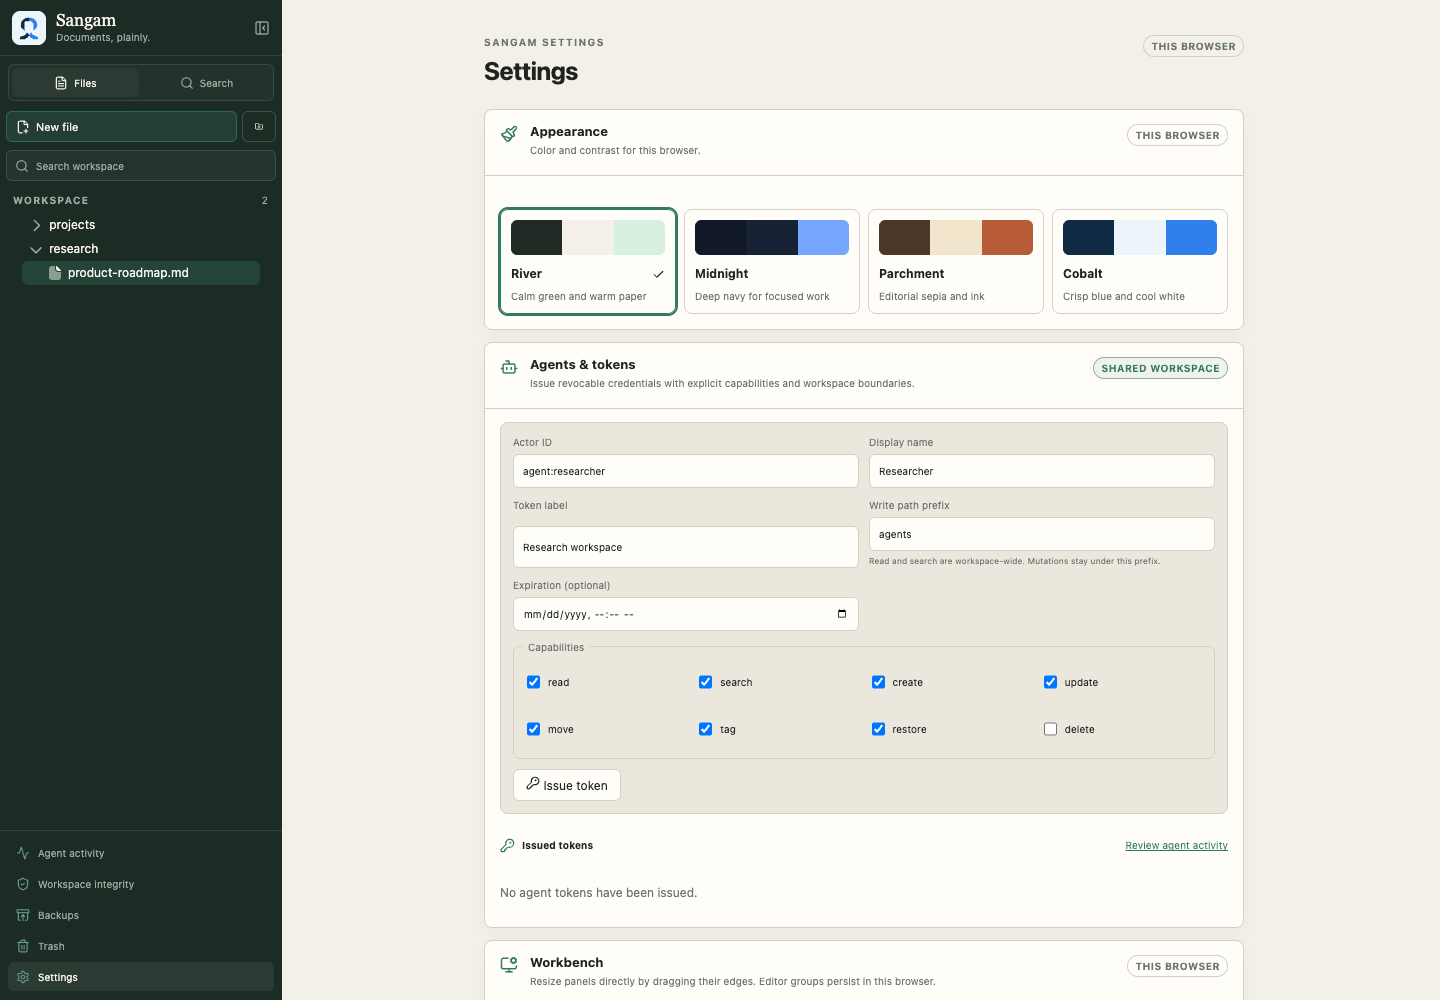
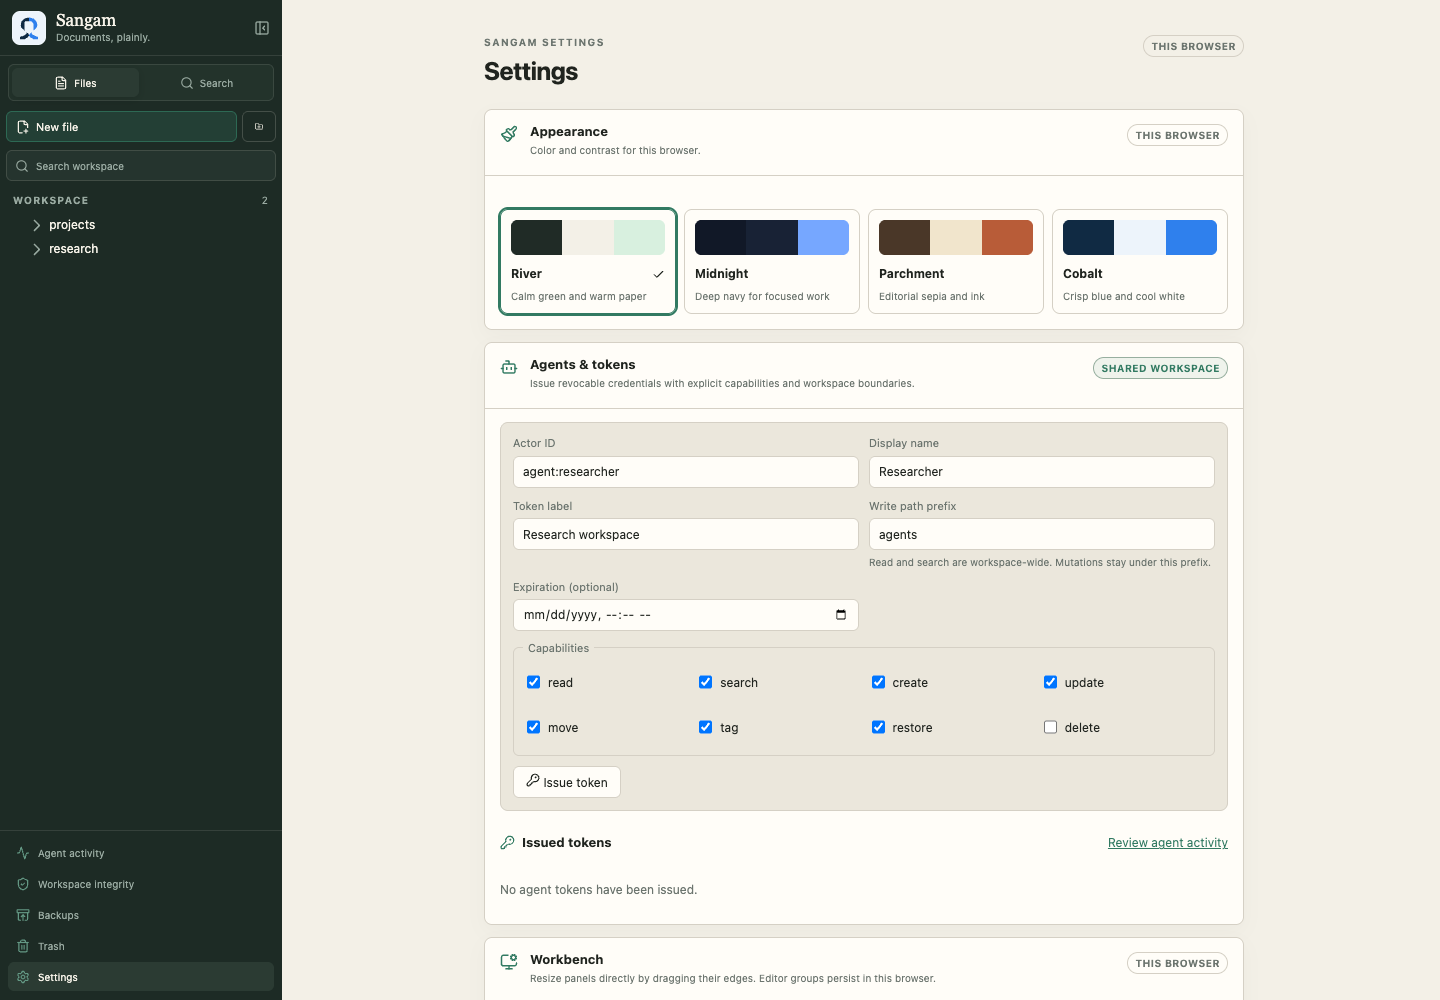
Finish settings UI standardization

diff --git a/frontend/src/styles/settings.css b/frontend/src/styles/settings.css
@@ -6,7 +6,7 @@
 .settings-nav-title { display: grid; gap: 2px; padding: 6px 9px 14px; border-bottom: 1px solid var(--line); margin-bottom: 7px; }
 .settings-nav-title strong { font-size: var(--text-body); }
 .settings-nav-title span { color: var(--muted); font-size: var(--text-meta); }
-.settings-nav a { min-height: 32px; display: flex; align-items: center; gap: 8px; padding: 0 9px; border-radius: var(--radius-control); color: var(--muted); text-decoration: none; font-size: var(--text-meta); }
+.settings-nav a { min-height: var(--control-height); display: flex; align-items: center; gap: 8px; padding: 0 9px; border-radius: var(--radius-control); color: var(--muted); text-decoration: none; font-size: var(--text-control); }
 .settings-nav a:hover, .settings-nav a:focus-visible { background: var(--surface); color: var(--text); }
 .settings-nav a svg { color: var(--accent); }
 .settings-content { width: min(920px, calc(100% - 36px)); margin: 0 auto; padding: 22px 0 64px; }
@@ -23,22 +23,23 @@
 .settings-theme-grid { grid-template-columns: repeat(4, minmax(0, 1fr)); gap: 8px; }
 .settings-theme-grid .theme-card { min-height: 102px; padding: 10px; }
 .settings-theme-grid .theme-card strong { display: flex; align-items: center; justify-content: space-between; }
+.settings-theme-grid .theme-card small { font-size: var(--text-meta); }
 .settings-rows { display: grid; }
 .setting-row { min-height: 54px; display: flex; align-items: center; justify-content: space-between; gap: 18px; padding: 8px 0; border-bottom: 1px solid var(--line); }
 .setting-row:last-child { border-bottom: 0; }
 .setting-row > div { min-width: 0; display: grid; gap: 2px; }
-.setting-row strong { font-size: var(--text-meta); }
+.setting-row strong { font-size: var(--text-body); }
 .setting-row small { color: var(--muted); font-size: var(--text-meta); line-height: 1.4; }
 .setting-value { display: inline-flex; align-items: center; gap: 5px; color: var(--muted); font-size: var(--text-meta); white-space: nowrap; }
-.compact-switch { display: inline-flex; align-items: center; gap: 7px; color: var(--muted); font-size: var(--text-meta); white-space: nowrap; }
+.compact-switch { display: inline-flex; align-items: center; gap: 7px; color: var(--muted); font-size: var(--text-control); white-space: nowrap; }
 .compact-switch input { accent-color: var(--accent); }
-.secondary-action { min-height: 30px; display: inline-flex; align-items: center; justify-content: center; gap: 6px; border: 1px solid var(--line); border-radius: var(--radius-control); background: var(--surface-soft); color: var(--text); padding: 0 9px; font-size: var(--text-meta); white-space: nowrap; }
+.secondary-action { min-height: var(--control-height); display: inline-flex; align-items: center; justify-content: center; gap: 6px; border: 1px solid var(--line); border-radius: var(--radius-control); background: var(--surface-soft); color: var(--text); padding: 0 9px; font-size: var(--text-control); white-space: nowrap; }
 .secondary-action:hover { border-color: var(--accent); }
 .settings-subsection + .settings-subsection { margin-top: 17px; padding-top: 15px; border-top: 1px solid var(--line); }
 .settings-subtitle { min-height: 27px; display: flex; align-items: center; justify-content: space-between; margin-bottom: 7px; }
 .settings-subtitle > div { display: flex; align-items: center; gap: 7px; }
 .settings-subtitle svg { color: var(--accent); }
-.settings-subtitle strong { font-size: var(--text-meta); }
+.settings-subtitle strong { font-size: var(--text-body); }
 .settings-subtitle > span { color: var(--muted); font-size: var(--text-meta); }
 .compact-creator { max-width: 430px; margin: 0 0 9px; }
 .compact-folder-setting { grid-template-columns: minmax(130px, 1.2fr) minmax(130px, 1fr) 1.5fr auto; padding: 8px 0; border: 0; border-bottom: 1px solid var(--line); border-radius: 0; background: transparent; }
@@ -46,14 +47,14 @@
 .operation-grid { display: grid; grid-template-columns: repeat(3, minmax(0, 1fr)); gap: 8px; }
 .operation-card { display: grid; align-content: start; gap: 6px; min-height: 144px; padding: 12px; border: 1px solid var(--line); border-radius: var(--radius-control); background: var(--surface-soft); }
 .operation-card svg { color: var(--accent); }
-.operation-card strong { font-size: var(--text-meta); }
+.operation-card strong { font-size: var(--text-body); }
 .operation-card p { margin: 0; color: var(--muted); font-size: var(--text-meta); line-height: 1.5; }
-.operation-card a { align-self: end; color: var(--accent); font-size: var(--text-meta); text-decoration: none; }
+.operation-card a { align-self: end; color: var(--accent); font-size: var(--text-control); text-decoration: none; }
 .maintenance-row { min-height: 61px; display: flex; align-items: center; justify-content: space-between; gap: 16px; margin-top: 10px; padding: 9px 11px; border: 1px solid var(--line); border-radius: var(--radius-control); }
 .maintenance-row > div { min-width: 0; display: flex; align-items: center; gap: 9px; }
 .maintenance-row > div > svg { flex: none; color: var(--accent); }
 .maintenance-row > div > span { display: grid; gap: 2px; }
-.maintenance-row strong { font-size: var(--text-meta); }
+.maintenance-row strong { font-size: var(--text-body); }
 .maintenance-row small { color: var(--muted); font-size: var(--text-meta); }
 .operation-result { display: flex; align-items: center; gap: 6px; margin: 8px 0 0; font-size: var(--text-meta); }
 .operation-result.success { color: var(--accent); }
@@ -66,13 +67,14 @@
 .shortcut-list span { color: var(--muted); font-size: var(--text-meta); }
 .agent-access-settings { display: grid; gap: 18px; }
 .agent-token-form { display: grid; grid-template-columns: repeat(2, minmax(0, 1fr)); gap: 10px; padding: 12px; border: 1px solid var(--line); border-radius: var(--radius-panel); background: var(--surface-soft); }
-.agent-token-form > label { display: grid; gap: 5px; color: var(--muted); font-size: var(--text-meta); }
-.agent-token-form input, .activity-filters input, .activity-filters select { min-height: 34px; padding: 7px 9px; border: 1px solid var(--line); border-radius: var(--radius-control); background: var(--surface); color: var(--text); }
+.agent-token-form > label { align-self: start; display: grid; gap: 5px; color: var(--muted); font-size: var(--text-label); }
+.agent-token-form input, .activity-filters input, .activity-filters select { height: var(--control-height); min-height: var(--control-height); padding: 0 9px; border: 1px solid var(--line); border-radius: var(--radius-control); background: var(--surface); color: var(--text); font-size: var(--text-control); line-height: var(--leading-ui); }
 .agent-token-form fieldset { grid-column: 1 / -1; margin: 0; padding: 9px; border: 1px solid var(--line); border-radius: var(--radius-control); }
-.agent-token-form legend { padding: 0 5px; color: var(--muted); font-size: var(--text-meta); }
+.agent-token-form legend { padding: 0 5px; color: var(--muted); font-size: var(--text-label); }
 .capability-grid { display: grid; grid-template-columns: repeat(4, minmax(0, 1fr)); gap: 7px; }
-.capability-grid label { display: flex; align-items: center; gap: 5px; font-size: var(--text-meta); }
+.capability-grid label { display: flex; align-items: center; gap: 5px; font-size: var(--text-control); }
 .agent-token-form > button { justify-self: start; }
+.compact-creator input[type="text"], .compact-creator button, .compact-folder-setting > input, .compact-folder-setting > button { height: var(--control-height); min-height: var(--control-height); padding-block: 0; font-size: var(--text-control); }
 .one-time-token { display: grid; gap: 10px; padding: 12px; border: 1px solid var(--accent); border-radius: var(--radius-panel); background: var(--surface-soft); }
 .one-time-token > div:first-child { display: flex; align-items: center; gap: 8px; }
 .one-time-token span { display: grid; gap: 2px; }
@@ -80,7 +82,7 @@
 .one-time-token code { overflow-x: auto; padding: 9px; border-radius: var(--radius-control); background: var(--surface); font-size: var(--text-meta); }
 .token-actions { display: flex; flex-wrap: wrap; gap: 6px; }
 .agent-token-list { display: grid; gap: 7px; }
-.agent-token-list a { color: var(--accent); font-size: var(--text-meta); }
+.agent-token-list a { color: var(--accent); font-size: var(--text-control); }
 .token-row { display: flex; align-items: center; justify-content: space-between; gap: 12px; padding: 10px; border: 1px solid var(--line); border-radius: var(--radius-control); }
 .token-row > div:first-child { min-width: 0; display: grid; gap: 3px; }
 .token-row small { color: var(--muted); font-size: var(--text-meta); }
@@ -93,13 +95,13 @@
 .activity-page h1 { margin: 2px 0 6px; font: 600 24px/1.2 var(--font-display); }
 .activity-page header p:last-child { max-width: 650px; margin: 0; color: var(--muted); font-size: var(--text-meta); }
 .activity-filters { display: grid; grid-template-columns: 1fr 180px; gap: 9px; margin-bottom: 12px; }
-.activity-filters label { display: grid; gap: 4px; color: var(--muted); font-size: var(--text-meta); }
+.activity-filters label { display: grid; gap: 4px; color: var(--muted); font-size: var(--text-label); }
 .activity-list { display: grid; gap: 7px; }
 .activity-event { display: grid; grid-template-columns: 90px minmax(0, 1fr) auto; align-items: center; gap: 12px; padding: 11px; border: 1px solid var(--line); border-radius: var(--radius-panel); background: var(--surface); }
 .activity-event > div { min-width: 0; display: grid; gap: 3px; }
 .activity-event small { color: var(--muted); font-size: var(--text-meta); }
 .activity-event code { justify-self: start; color: var(--accent); font-size: var(--text-meta); }
-.activity-event > a { display: flex; align-items: center; gap: 4px; color: var(--accent); font-size: var(--text-meta); text-decoration: none; }
+.activity-event > a { display: flex; align-items: center; gap: 4px; color: var(--accent); font-size: var(--text-control); text-decoration: none; }
 .activity-outcome { display: inline-flex; align-items: center; gap: 5px; color: var(--accent); font-size: var(--text-meta); text-transform: capitalize; }
 .activity-event.denied .activity-outcome, .activity-event.conflict .activity-outcome, .activity-event.failed .activity-outcome { color: #bd493c; }
 

diff --git a/frontend/src/styles/ui-system.css b/frontend/src/styles/ui-system.css
@@ -20,6 +20,11 @@
   font-family: var(--font-mono);
 }
 
+small {
+  font-size: var(--text-meta);
+  line-height: var(--leading-ui);
+}
+
 button {
   min-height: var(--control-height);
   padding: 0 var(--space-3);

diff --git a/frontend/src/styles/document.css b/frontend/src/styles/document.css
@@ -1,6 +1,6 @@
 * { box-sizing: border-box; }
 body { margin: 0; min-width: 320px; min-height: 100vh; background: var(--app-bg); color: var(--text); font-family: var(--font-ui); font-synthesis: none; text-rendering: optimizeLegibility; }
-button, input, select { font: inherit; }
+button, input, select { font-family: inherit; }
 button { cursor: pointer; }
 button:disabled { cursor: default; opacity: .55; }
 